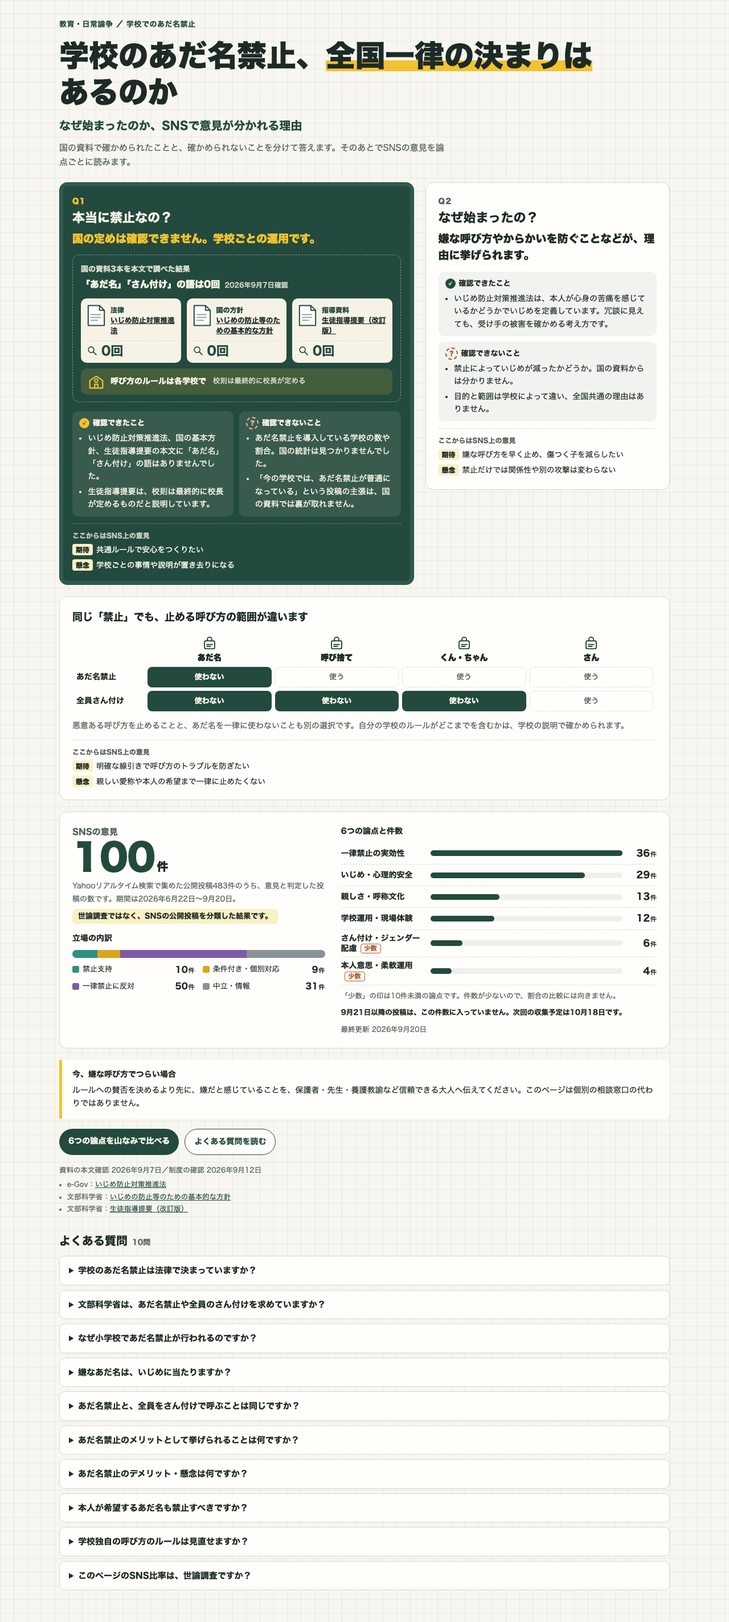
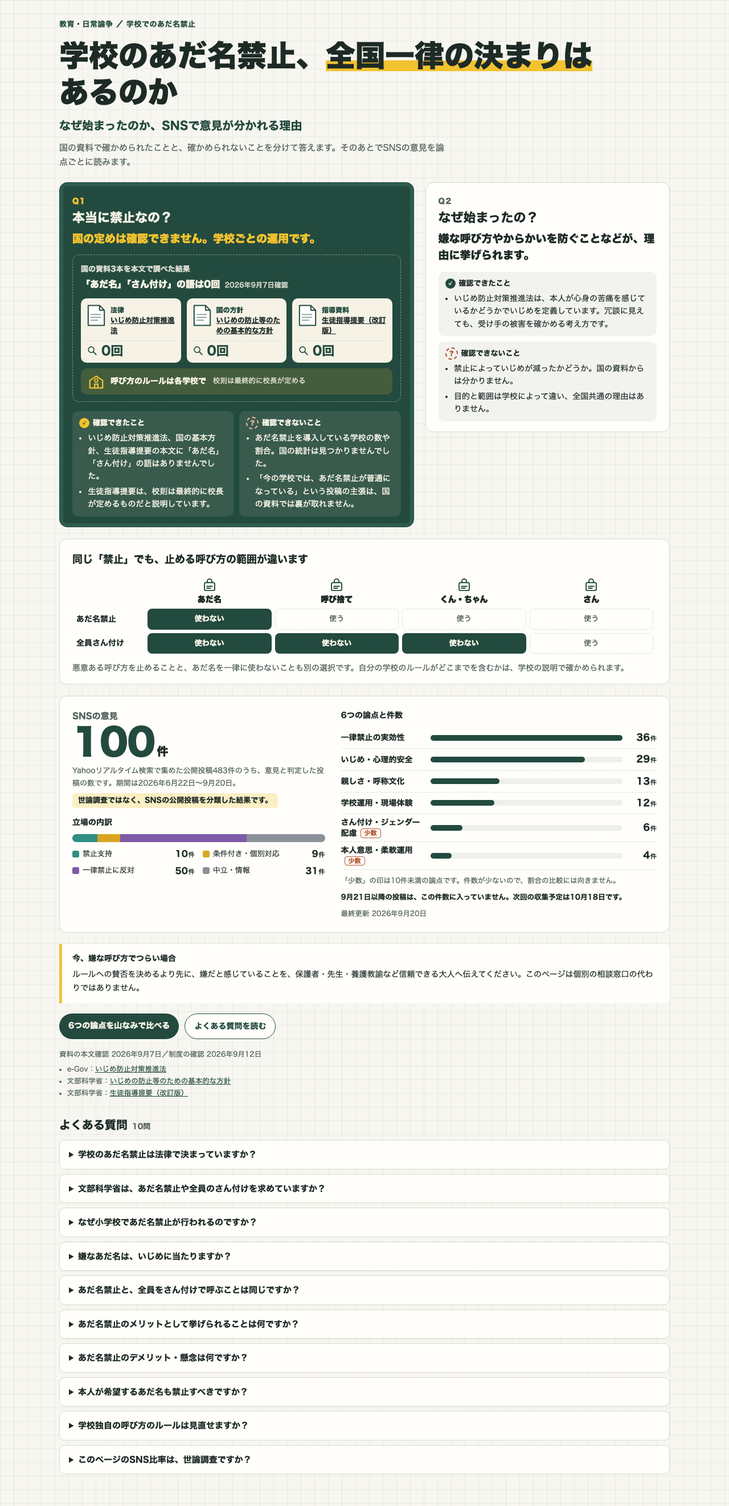
school-nickname-ban: 期待・懸念を冒頭から背景へ移動（オーナー指示）

Changed region(s): [[0.0625, 0.0, 0.9062, 0.9921], [0.4375, 0.031, 0.8125, 0.062], [0.875, 0.496, 0.9062, 0.589]]

diff --git a/quality/prototypes/school-nickname-ban-opening/index.html b/quality/prototypes/school-nickname-ban-opening/index.html
@@ -12,8 +12,8 @@
 <!-- SCHOOL_NICKNAME_OPENING_START -->
 <section class="nop" aria-label="学校でのあだ名禁止の冒頭">
 <header class="nop-hero"><p class="nop-crumb">教育・日常論争 ／ 学校でのあだ名禁止</p><h1 class="nop-title"><span class="nop-phrase">学校のあだ名禁止、</span><span class="nop-phrase nop-accent">全国一律の決まりは</span><span class="nop-phrase">あるのか</span><span class="nop-sub"><span class="nop-phrase">なぜ始まったのか、</span><span class="nop-phrase">SNSで意見が分かれる理由</span></span></h1><p class="nop-lead">国の資料で確かめられたことと、確かめられないことを分けて答えます。そのあとでSNSの意見を論点ごとに読みます。</p></header>
-<div class="nop-answers"><article class="nop-answer nop-answer--rule" aria-labelledby="nop-q-rule"><p class="nop-answer__num" aria-hidden="true">Q1</p><h2 class="nop-answer__q" id="nop-q-rule">本当に禁止なの？</h2><p class="nop-answer__short">国の定めは確認できません。学校ごとの運用です。</p><figure class="nop-docs" aria-labelledby="nop-docs-title"><figcaption id="nop-docs-title" class="nop-docs__title">国の資料3本を本文で調べた結果</figcaption><p class="nop-docs__result">「あだ名」「さん付け」の語は0回<small>2026年9月7日確認</small></p><ol class="nop-docs__list"><li class="nop-doc"><svg class="nop-doc__paper" viewBox="0 0 40 48" aria-hidden="true" focusable="false"><path d="M3 3h24l10 10v32H3z" fill="#fff" stroke="currentColor" stroke-width="2.4" stroke-linejoin="round"/><path d="M27 3v10h10" fill="none" stroke="currentColor" stroke-width="2.4" stroke-linejoin="round"/><path d="M9 22h20M9 28h20M9 34h14" stroke="currentColor" stroke-width="2" stroke-linecap="round" opacity=".55"/></svg><span class="nop-doc__kind">法律</span><span class="nop-doc__name"><a href="https://laws.e-gov.go.jp/law/425AC1000000071" target="_blank" rel="noopener noreferrer">いじめ防止対策推進法</a></span><span class="nop-doc__hit"><svg class="nop-icon" viewBox="0 0 32 32" aria-hidden="true" focusable="false"><circle cx="13" cy="13" r="8" fill="none" stroke="currentColor" stroke-width="2.6"/><path d="M19 19l8 8" stroke="currentColor" stroke-width="3" stroke-linecap="round"/></svg><b>0回</b></span></li><li class="nop-doc"><svg class="nop-doc__paper" viewBox="0 0 40 48" aria-hidden="true" focusable="false"><path d="M3 3h24l10 10v32H3z" fill="#fff" stroke="currentColor" stroke-width="2.4" stroke-linejoin="round"/><path d="M27 3v10h10" fill="none" stroke="currentColor" stroke-width="2.4" stroke-linejoin="round"/><path d="M9 22h20M9 28h20M9 34h14" stroke="currentColor" stroke-width="2" stroke-linecap="round" opacity=".55"/></svg><span class="nop-doc__kind">国の方針</span><span class="nop-doc__name"><a href="https://www.mext.go.jp/component/a_menu/education/detail/__icsFiles/afieldfile/2019/06/26/1400030_007.pdf" target="_blank" rel="noopener noreferrer">いじめの防止等のための基本的な方針</a></span><span class="nop-doc__hit"><svg class="nop-icon" viewBox="0 0 32 32" aria-hidden="true" focusable="false"><circle cx="13" cy="13" r="8" fill="none" stroke="currentColor" stroke-width="2.6"/><path d="M19 19l8 8" stroke="currentColor" stroke-width="3" stroke-linecap="round"/></svg><b>0回</b></span></li><li class="nop-doc"><svg class="nop-doc__paper" viewBox="0 0 40 48" aria-hidden="true" focusable="false"><path d="M3 3h24l10 10v32H3z" fill="#fff" stroke="currentColor" stroke-width="2.4" stroke-linejoin="round"/><path d="M27 3v10h10" fill="none" stroke="currentColor" stroke-width="2.4" stroke-linejoin="round"/><path d="M9 22h20M9 28h20M9 34h14" stroke="currentColor" stroke-width="2" stroke-linecap="round" opacity=".55"/></svg><span class="nop-doc__kind">指導資料</span><span class="nop-doc__name"><a href="https://www.mext.go.jp/content/20230220-mxt_jidou01-000024699-201-1.pdf" target="_blank" rel="noopener noreferrer">生徒指導提要（改訂版）</a></span><span class="nop-doc__hit"><svg class="nop-icon" viewBox="0 0 32 32" aria-hidden="true" focusable="false"><circle cx="13" cy="13" r="8" fill="none" stroke="currentColor" stroke-width="2.6"/><path d="M19 19l8 8" stroke="currentColor" stroke-width="3" stroke-linecap="round"/></svg><b>0回</b></span></li></ol><div class="nop-docs__school"><svg class="nop-icon" viewBox="0 0 32 32" aria-hidden="true" focusable="false"><path d="M4 28V14l12-8 12 8v14z" fill="none" stroke="currentColor" stroke-width="2.4" stroke-linejoin="round"/><circle cx="16" cy="14" r="3" fill="none" stroke="currentColor" stroke-width="2"/><path d="M13 28v-7h6v7" fill="none" stroke="currentColor" stroke-width="2.4"/></svg><p><b>呼び方のルールは各学校で</b><span>校則は最終的に校長が定める</span></p></div></figure><div class="nop-split"><div class="nop-split__ok"><h3>確認できたこと</h3><ul><li>いじめ防止対策推進法、国の基本方針、生徒指導提要の本文に「あだ名」「さん付け」の語はありませんでした。</li><li>生徒指導提要は、校則は最終的に校長が定めるものだと説明しています。</li></ul></div><div class="nop-split__ng"><h3>確認できないこと</h3><ul><li>あだ名禁止を導入している学校の数や割合。国の統計は見つかりませんでした。</li><li>「今の学校では、あだ名禁止が普通になっている」という投稿の主張は、国の資料では裏が取れません。</li></ul></div></div><div class="nop-voices" aria-label="ここからはSNS上の意見"><p class="nop-voices__label">ここからはSNS上の意見</p><p><span>期待</span>共通ルールで安心をつくりたい</p><p><span>懸念</span>学校ごとの事情や説明が置き去りになる</p></div></article><article class="nop-answer nop-answer--why" aria-labelledby="nop-q-why"><p class="nop-answer__num" aria-hidden="true">Q2</p><h2 class="nop-answer__q" id="nop-q-why">なぜ始まったの？</h2><p class="nop-answer__short">嫌な呼び方やからかいを防ぐことなどが、理由に挙げられます。</p><div class="nop-split"><div class="nop-split__ok"><h3>確認できたこと</h3><ul><li>いじめ防止対策推進法は、本人が心身の苦痛を感じているかどうかでいじめを定義しています。冗談に見えても、受け手の被害を確かめる考え方です。</li></ul></div><div class="nop-split__ng"><h3>確認できないこと</h3><ul><li>禁止によっていじめが減ったかどうか。国の資料からは分かりません。</li><li>目的と範囲は学校によって違い、全国共通の理由はありません。</li></ul></div></div><div class="nop-voices" aria-label="ここからはSNS上の意見"><p class="nop-voices__label">ここからはSNS上の意見</p><p><span>期待</span>嫌な呼び方を早く止め、傷つく子を減らしたい</p><p><span>懸念</span>禁止だけでは関係性や別の攻撃は変わらない</p></div></article></div>
-<section class="nop-scope" aria-labelledby="nop-scope-title"><h2 id="nop-scope-title">同じ「禁止」でも、止める呼び方の範囲が違います</h2><div class="nop-scope__wrap"><table class="nop-scope__table"><thead><tr><td></td><th scope="col"><span class="nop-tag"><svg class="nop-icon" viewBox="0 0 32 32" aria-hidden="true" focusable="false"><rect x="5" y="9" width="22" height="17" rx="3" fill="none" stroke="currentColor" stroke-width="2.4"/><path d="M11 9V6a5 5 0 0 1 10 0v3" fill="none" stroke="currentColor" stroke-width="2.4"/><path d="M10 17h12M10 21h8" stroke="currentColor" stroke-width="2.4" stroke-linecap="round"/></svg><b>あだ名</b></span></th><th scope="col"><span class="nop-tag"><svg class="nop-icon" viewBox="0 0 32 32" aria-hidden="true" focusable="false"><rect x="5" y="9" width="22" height="17" rx="3" fill="none" stroke="currentColor" stroke-width="2.4"/><path d="M11 9V6a5 5 0 0 1 10 0v3" fill="none" stroke="currentColor" stroke-width="2.4"/><path d="M10 17h12M10 21h8" stroke="currentColor" stroke-width="2.4" stroke-linecap="round"/></svg><b>呼び捨て</b></span></th><th scope="col"><span class="nop-tag"><svg class="nop-icon" viewBox="0 0 32 32" aria-hidden="true" focusable="false"><rect x="5" y="9" width="22" height="17" rx="3" fill="none" stroke="currentColor" stroke-width="2.4"/><path d="M11 9V6a5 5 0 0 1 10 0v3" fill="none" stroke="currentColor" stroke-width="2.4"/><path d="M10 17h12M10 21h8" stroke="currentColor" stroke-width="2.4" stroke-linecap="round"/></svg><b>くん・<wbr>ちゃん</b></span></th><th scope="col"><span class="nop-tag"><svg class="nop-icon" viewBox="0 0 32 32" aria-hidden="true" focusable="false"><rect x="5" y="9" width="22" height="17" rx="3" fill="none" stroke="currentColor" stroke-width="2.4"/><path d="M11 9V6a5 5 0 0 1 10 0v3" fill="none" stroke="currentColor" stroke-width="2.4"/><path d="M10 17h12M10 21h8" stroke="currentColor" stroke-width="2.4" stroke-linecap="round"/></svg><b>さん</b></span></th></tr></thead><tbody><tr><th scope="row">あだ名禁止</th><td class="nop-cell--stop">使わない</td><td class="nop-cell--keep">使う</td><td class="nop-cell--keep">使う</td><td class="nop-cell--keep">使う</td></tr><tr><th scope="row">全員さん付け</th><td class="nop-cell--stop">使わない</td><td class="nop-cell--stop">使わない</td><td class="nop-cell--stop">使わない</td><td class="nop-cell--keep">使う</td></tr></tbody></table></div><p class="nop-scope__note">悪意ある呼び方を止めることと、あだ名を一律に使わないことも別の選択です。自分の学校のルールがどこまでを含むかは、学校の説明で確かめられます。</p><div class="nop-voices" aria-label="ここからはSNS上の意見"><p class="nop-voices__label">ここからはSNS上の意見</p><p><span>期待</span>明確な線引きで呼び方のトラブルを防ぎたい</p><p><span>懸念</span>親しい愛称や本人の希望まで一律に止めたくない</p></div></section>
+<div class="nop-answers"><article class="nop-answer nop-answer--rule" aria-labelledby="nop-q-rule"><p class="nop-answer__num" aria-hidden="true">Q1</p><h2 class="nop-answer__q" id="nop-q-rule">本当に禁止なの？</h2><p class="nop-answer__short">国の定めは確認できません。学校ごとの運用です。</p><figure class="nop-docs" aria-labelledby="nop-docs-title"><figcaption id="nop-docs-title" class="nop-docs__title">国の資料3本を本文で調べた結果</figcaption><p class="nop-docs__result">「あだ名」「さん付け」の語は0回<small>2026年9月7日確認</small></p><ol class="nop-docs__list"><li class="nop-doc"><svg class="nop-doc__paper" viewBox="0 0 40 48" aria-hidden="true" focusable="false"><path d="M3 3h24l10 10v32H3z" fill="#fff" stroke="currentColor" stroke-width="2.4" stroke-linejoin="round"/><path d="M27 3v10h10" fill="none" stroke="currentColor" stroke-width="2.4" stroke-linejoin="round"/><path d="M9 22h20M9 28h20M9 34h14" stroke="currentColor" stroke-width="2" stroke-linecap="round" opacity=".55"/></svg><span class="nop-doc__kind">法律</span><span class="nop-doc__name"><a href="https://laws.e-gov.go.jp/law/425AC1000000071" target="_blank" rel="noopener noreferrer">いじめ防止対策推進法</a></span><span class="nop-doc__hit"><svg class="nop-icon" viewBox="0 0 32 32" aria-hidden="true" focusable="false"><circle cx="13" cy="13" r="8" fill="none" stroke="currentColor" stroke-width="2.6"/><path d="M19 19l8 8" stroke="currentColor" stroke-width="3" stroke-linecap="round"/></svg><b>0回</b></span></li><li class="nop-doc"><svg class="nop-doc__paper" viewBox="0 0 40 48" aria-hidden="true" focusable="false"><path d="M3 3h24l10 10v32H3z" fill="#fff" stroke="currentColor" stroke-width="2.4" stroke-linejoin="round"/><path d="M27 3v10h10" fill="none" stroke="currentColor" stroke-width="2.4" stroke-linejoin="round"/><path d="M9 22h20M9 28h20M9 34h14" stroke="currentColor" stroke-width="2" stroke-linecap="round" opacity=".55"/></svg><span class="nop-doc__kind">国の方針</span><span class="nop-doc__name"><a href="https://www.mext.go.jp/component/a_menu/education/detail/__icsFiles/afieldfile/2019/06/26/1400030_007.pdf" target="_blank" rel="noopener noreferrer">いじめの防止等のための基本的な方針</a></span><span class="nop-doc__hit"><svg class="nop-icon" viewBox="0 0 32 32" aria-hidden="true" focusable="false"><circle cx="13" cy="13" r="8" fill="none" stroke="currentColor" stroke-width="2.6"/><path d="M19 19l8 8" stroke="currentColor" stroke-width="3" stroke-linecap="round"/></svg><b>0回</b></span></li><li class="nop-doc"><svg class="nop-doc__paper" viewBox="0 0 40 48" aria-hidden="true" focusable="false"><path d="M3 3h24l10 10v32H3z" fill="#fff" stroke="currentColor" stroke-width="2.4" stroke-linejoin="round"/><path d="M27 3v10h10" fill="none" stroke="currentColor" stroke-width="2.4" stroke-linejoin="round"/><path d="M9 22h20M9 28h20M9 34h14" stroke="currentColor" stroke-width="2" stroke-linecap="round" opacity=".55"/></svg><span class="nop-doc__kind">指導資料</span><span class="nop-doc__name"><a href="https://www.mext.go.jp/content/20230220-mxt_jidou01-000024699-201-1.pdf" target="_blank" rel="noopener noreferrer">生徒指導提要（改訂版）</a></span><span class="nop-doc__hit"><svg class="nop-icon" viewBox="0 0 32 32" aria-hidden="true" focusable="false"><circle cx="13" cy="13" r="8" fill="none" stroke="currentColor" stroke-width="2.6"/><path d="M19 19l8 8" stroke="currentColor" stroke-width="3" stroke-linecap="round"/></svg><b>0回</b></span></li></ol><div class="nop-docs__school"><svg class="nop-icon" viewBox="0 0 32 32" aria-hidden="true" focusable="false"><path d="M4 28V14l12-8 12 8v14z" fill="none" stroke="currentColor" stroke-width="2.4" stroke-linejoin="round"/><circle cx="16" cy="14" r="3" fill="none" stroke="currentColor" stroke-width="2"/><path d="M13 28v-7h6v7" fill="none" stroke="currentColor" stroke-width="2.4"/></svg><p><b>呼び方のルールは各学校で</b><span>校則は最終的に校長が定める</span></p></div></figure><div class="nop-split"><div class="nop-split__ok"><h3>確認できたこと</h3><ul><li>いじめ防止対策推進法、国の基本方針、生徒指導提要の本文に「あだ名」「さん付け」の語はありませんでした。</li><li>生徒指導提要は、校則は最終的に校長が定めるものだと説明しています。</li></ul></div><div class="nop-split__ng"><h3>確認できないこと</h3><ul><li>あだ名禁止を導入している学校の数や割合。国の統計は見つかりませんでした。</li><li>「今の学校では、あだ名禁止が普通になっている」という投稿の主張は、国の資料では裏が取れません。</li></ul></div></div></article><article class="nop-answer nop-answer--why" aria-labelledby="nop-q-why"><p class="nop-answer__num" aria-hidden="true">Q2</p><h2 class="nop-answer__q" id="nop-q-why">なぜ始まったの？</h2><p class="nop-answer__short">嫌な呼び方やからかいを防ぐことなどが、理由に挙げられます。</p><div class="nop-split"><div class="nop-split__ok"><h3>確認できたこと</h3><ul><li>いじめ防止対策推進法は、本人が心身の苦痛を感じているかどうかでいじめを定義しています。冗談に見えても、受け手の被害を確かめる考え方です。</li></ul></div><div class="nop-split__ng"><h3>確認できないこと</h3><ul><li>禁止によっていじめが減ったかどうか。国の資料からは分かりません。</li><li>目的と範囲は学校によって違い、全国共通の理由はありません。</li></ul></div></div></article></div>
+<section class="nop-scope" aria-labelledby="nop-scope-title"><h2 id="nop-scope-title">同じ「禁止」でも、止める呼び方の範囲が違います</h2><div class="nop-scope__wrap"><table class="nop-scope__table"><thead><tr><td></td><th scope="col"><span class="nop-tag"><svg class="nop-icon" viewBox="0 0 32 32" aria-hidden="true" focusable="false"><rect x="5" y="9" width="22" height="17" rx="3" fill="none" stroke="currentColor" stroke-width="2.4"/><path d="M11 9V6a5 5 0 0 1 10 0v3" fill="none" stroke="currentColor" stroke-width="2.4"/><path d="M10 17h12M10 21h8" stroke="currentColor" stroke-width="2.4" stroke-linecap="round"/></svg><b>あだ名</b></span></th><th scope="col"><span class="nop-tag"><svg class="nop-icon" viewBox="0 0 32 32" aria-hidden="true" focusable="false"><rect x="5" y="9" width="22" height="17" rx="3" fill="none" stroke="currentColor" stroke-width="2.4"/><path d="M11 9V6a5 5 0 0 1 10 0v3" fill="none" stroke="currentColor" stroke-width="2.4"/><path d="M10 17h12M10 21h8" stroke="currentColor" stroke-width="2.4" stroke-linecap="round"/></svg><b>呼び捨て</b></span></th><th scope="col"><span class="nop-tag"><svg class="nop-icon" viewBox="0 0 32 32" aria-hidden="true" focusable="false"><rect x="5" y="9" width="22" height="17" rx="3" fill="none" stroke="currentColor" stroke-width="2.4"/><path d="M11 9V6a5 5 0 0 1 10 0v3" fill="none" stroke="currentColor" stroke-width="2.4"/><path d="M10 17h12M10 21h8" stroke="currentColor" stroke-width="2.4" stroke-linecap="round"/></svg><b>くん・<wbr>ちゃん</b></span></th><th scope="col"><span class="nop-tag"><svg class="nop-icon" viewBox="0 0 32 32" aria-hidden="true" focusable="false"><rect x="5" y="9" width="22" height="17" rx="3" fill="none" stroke="currentColor" stroke-width="2.4"/><path d="M11 9V6a5 5 0 0 1 10 0v3" fill="none" stroke="currentColor" stroke-width="2.4"/><path d="M10 17h12M10 21h8" stroke="currentColor" stroke-width="2.4" stroke-linecap="round"/></svg><b>さん</b></span></th></tr></thead><tbody><tr><th scope="row">あだ名禁止</th><td class="nop-cell--stop">使わない</td><td class="nop-cell--keep">使う</td><td class="nop-cell--keep">使う</td><td class="nop-cell--keep">使う</td></tr><tr><th scope="row">全員さん付け</th><td class="nop-cell--stop">使わない</td><td class="nop-cell--stop">使わない</td><td class="nop-cell--stop">使わない</td><td class="nop-cell--keep">使う</td></tr></tbody></table></div><p class="nop-scope__note">悪意ある呼び方を止めることと、あだ名を一律に使わないことも別の選択です。自分の学校のルールがどこまでを含むかは、学校の説明で確かめられます。</p></section>
 <section class="nop-count" id="school-nickname-opening-count" aria-labelledby="nop-count-title"><div class="nop-count__total"><h2 id="nop-count-title">SNSの意見</h2><p class="nop-count__num"><strong>100</strong><span>件</span></p><p class="nop-count__caption">Yahooリアルタイム検索で集めた公開投稿483件のうち、意見と判定した投稿の数です。期間は2026年6月22日〜9月20日。</p><p class="nop-count__poll">世論調査ではなく、SNSの公開投稿を分類した結果です。</p><h3 class="nop-count__sub">立場の内訳</h3><div class="nop-stance" aria-hidden="true"><span class="nop-stance__seg" style="--w:10.00%;--c:#2F8F83"></span><span class="nop-stance__seg" style="--w:9.00%;--c:#D9A520"></span><span class="nop-stance__seg" style="--w:50.00%;--c:#7D5BA6"></span><span class="nop-stance__seg" style="--w:31.00%;--c:#8B9199"></span></div><ul class="nop-stance__list"><li><span class="nop-key" style="--c:#2F8F83" aria-hidden="true"></span>禁止支持<b>10<small>件</small></b></li><li><span class="nop-key" style="--c:#D9A520" aria-hidden="true"></span>条件付き・個別対応<b>9<small>件</small></b></li><li><span class="nop-key" style="--c:#7D5BA6" aria-hidden="true"></span>一律禁止に反対<b>50<small>件</small></b></li><li><span class="nop-key" style="--c:#8B9199" aria-hidden="true"></span>中立・情報<b>31<small>件</small></b></li></ul></div><div class="nop-count__issues"><h3 class="nop-count__sub">6つの論点と件数</h3><ol class="nop-issues"><li class="nop-issue"><span class="nop-issue__name">一律禁止の実効性</span><span class="nop-issue__bar" aria-hidden="true"><i style="--w:100.00%"></i></span><b>36<small>件</small></b></li><li class="nop-issue"><span class="nop-issue__name">いじめ・心理的安全</span><span class="nop-issue__bar" aria-hidden="true"><i style="--w:80.56%"></i></span><b>29<small>件</small></b></li><li class="nop-issue"><span class="nop-issue__name">親しさ・呼称文化</span><span class="nop-issue__bar" aria-hidden="true"><i style="--w:36.11%"></i></span><b>13<small>件</small></b></li><li class="nop-issue"><span class="nop-issue__name">学校運用・現場体験</span><span class="nop-issue__bar" aria-hidden="true"><i style="--w:33.33%"></i></span><b>12<small>件</small></b></li><li class="nop-issue"><span class="nop-issue__name">さん付け・ジェンダー配慮<em class="nop-flag">少数</em></span><span class="nop-issue__bar" aria-hidden="true"><i style="--w:16.67%"></i></span><b>6<small>件</small></b></li><li class="nop-issue"><span class="nop-issue__name">本人意思・柔軟運用<em class="nop-flag">少数</em></span><span class="nop-issue__bar" aria-hidden="true"><i style="--w:11.11%"></i></span><b>4<small>件</small></b></li></ol><p class="nop-count__note">「少数」の印は10件未満の論点です。件数が少ないので、割合の比較には向きません。</p><p class="nop-count__after">9月21日以降の投稿は、この件数に入っていません。次回の収集予定は10月18日です。</p><p class="nop-count__updated">最終更新 2026年9月20日</p></div></section>
 <aside class="nop-safety"><b>今、嫌な呼び方でつらい場合</b><p>ルールへの賛否を決めるより先に、嫌だと感じていることを、保護者・先生・養護教諭など信頼できる大人へ伝えてください。このページは個別の相談窓口の代わりではありません。</p></aside>
 <nav class="nop-links" aria-label="このページの読み方"><a class="nop-link" href="#planet-block">6つの論点を山なみで比べる</a><a class="nop-link" href="#school-nickname-faq">よくある質問を読む</a></nav>

diff --git a/quality/prototypes/school-nickname-ban-opening/opening-fragment.html b/quality/prototypes/school-nickname-ban-opening/opening-fragment.html
@@ -1,8 +1,8 @@
 <!-- SCHOOL_NICKNAME_OPENING_START -->
 <section class="nop" aria-label="学校でのあだ名禁止の冒頭">
 <header class="nop-hero"><p class="nop-crumb">教育・日常論争 ／ 学校でのあだ名禁止</p><h1 class="nop-title"><span class="nop-phrase">学校のあだ名禁止、</span><span class="nop-phrase nop-accent">全国一律の決まりは</span><span class="nop-phrase">あるのか</span><span class="nop-sub"><span class="nop-phrase">なぜ始まったのか、</span><span class="nop-phrase">SNSで意見が分かれる理由</span></span></h1><p class="nop-lead">国の資料で確かめられたことと、確かめられないことを分けて答えます。そのあとでSNSの意見を論点ごとに読みます。</p></header>
-<div class="nop-answers"><article class="nop-answer nop-answer--rule" aria-labelledby="nop-q-rule"><p class="nop-answer__num" aria-hidden="true">Q1</p><h2 class="nop-answer__q" id="nop-q-rule">本当に禁止なの？</h2><p class="nop-answer__short">国の定めは確認できません。学校ごとの運用です。</p><figure class="nop-docs" aria-labelledby="nop-docs-title"><figcaption id="nop-docs-title" class="nop-docs__title">国の資料3本を本文で調べた結果</figcaption><p class="nop-docs__result">「あだ名」「さん付け」の語は0回<small>2026年9月7日確認</small></p><ol class="nop-docs__list"><li class="nop-doc"><svg class="nop-doc__paper" viewBox="0 0 40 48" aria-hidden="true" focusable="false"><path d="M3 3h24l10 10v32H3z" fill="#fff" stroke="currentColor" stroke-width="2.4" stroke-linejoin="round"/><path d="M27 3v10h10" fill="none" stroke="currentColor" stroke-width="2.4" stroke-linejoin="round"/><path d="M9 22h20M9 28h20M9 34h14" stroke="currentColor" stroke-width="2" stroke-linecap="round" opacity=".55"/></svg><span class="nop-doc__kind">法律</span><span class="nop-doc__name"><a href="https://laws.e-gov.go.jp/law/425AC1000000071" target="_blank" rel="noopener noreferrer">いじめ防止対策推進法</a></span><span class="nop-doc__hit"><svg class="nop-icon" viewBox="0 0 32 32" aria-hidden="true" focusable="false"><circle cx="13" cy="13" r="8" fill="none" stroke="currentColor" stroke-width="2.6"/><path d="M19 19l8 8" stroke="currentColor" stroke-width="3" stroke-linecap="round"/></svg><b>0回</b></span></li><li class="nop-doc"><svg class="nop-doc__paper" viewBox="0 0 40 48" aria-hidden="true" focusable="false"><path d="M3 3h24l10 10v32H3z" fill="#fff" stroke="currentColor" stroke-width="2.4" stroke-linejoin="round"/><path d="M27 3v10h10" fill="none" stroke="currentColor" stroke-width="2.4" stroke-linejoin="round"/><path d="M9 22h20M9 28h20M9 34h14" stroke="currentColor" stroke-width="2" stroke-linecap="round" opacity=".55"/></svg><span class="nop-doc__kind">国の方針</span><span class="nop-doc__name"><a href="https://www.mext.go.jp/component/a_menu/education/detail/__icsFiles/afieldfile/2019/06/26/1400030_007.pdf" target="_blank" rel="noopener noreferrer">いじめの防止等のための基本的な方針</a></span><span class="nop-doc__hit"><svg class="nop-icon" viewBox="0 0 32 32" aria-hidden="true" focusable="false"><circle cx="13" cy="13" r="8" fill="none" stroke="currentColor" stroke-width="2.6"/><path d="M19 19l8 8" stroke="currentColor" stroke-width="3" stroke-linecap="round"/></svg><b>0回</b></span></li><li class="nop-doc"><svg class="nop-doc__paper" viewBox="0 0 40 48" aria-hidden="true" focusable="false"><path d="M3 3h24l10 10v32H3z" fill="#fff" stroke="currentColor" stroke-width="2.4" stroke-linejoin="round"/><path d="M27 3v10h10" fill="none" stroke="currentColor" stroke-width="2.4" stroke-linejoin="round"/><path d="M9 22h20M9 28h20M9 34h14" stroke="currentColor" stroke-width="2" stroke-linecap="round" opacity=".55"/></svg><span class="nop-doc__kind">指導資料</span><span class="nop-doc__name"><a href="https://www.mext.go.jp/content/20230220-mxt_jidou01-000024699-201-1.pdf" target="_blank" rel="noopener noreferrer">生徒指導提要（改訂版）</a></span><span class="nop-doc__hit"><svg class="nop-icon" viewBox="0 0 32 32" aria-hidden="true" focusable="false"><circle cx="13" cy="13" r="8" fill="none" stroke="currentColor" stroke-width="2.6"/><path d="M19 19l8 8" stroke="currentColor" stroke-width="3" stroke-linecap="round"/></svg><b>0回</b></span></li></ol><div class="nop-docs__school"><svg class="nop-icon" viewBox="0 0 32 32" aria-hidden="true" focusable="false"><path d="M4 28V14l12-8 12 8v14z" fill="none" stroke="currentColor" stroke-width="2.4" stroke-linejoin="round"/><circle cx="16" cy="14" r="3" fill="none" stroke="currentColor" stroke-width="2"/><path d="M13 28v-7h6v7" fill="none" stroke="currentColor" stroke-width="2.4"/></svg><p><b>呼び方のルールは各学校で</b><span>校則は最終的に校長が定める</span></p></div></figure><div class="nop-split"><div class="nop-split__ok"><h3>確認できたこと</h3><ul><li>いじめ防止対策推進法、国の基本方針、生徒指導提要の本文に「あだ名」「さん付け」の語はありませんでした。</li><li>生徒指導提要は、校則は最終的に校長が定めるものだと説明しています。</li></ul></div><div class="nop-split__ng"><h3>確認できないこと</h3><ul><li>あだ名禁止を導入している学校の数や割合。国の統計は見つかりませんでした。</li><li>「今の学校では、あだ名禁止が普通になっている」という投稿の主張は、国の資料では裏が取れません。</li></ul></div></div><div class="nop-voices" aria-label="ここからはSNS上の意見"><p class="nop-voices__label">ここからはSNS上の意見</p><p><span>期待</span>共通ルールで安心をつくりたい</p><p><span>懸念</span>学校ごとの事情や説明が置き去りになる</p></div></article><article class="nop-answer nop-answer--why" aria-labelledby="nop-q-why"><p class="nop-answer__num" aria-hidden="true">Q2</p><h2 class="nop-answer__q" id="nop-q-why">なぜ始まったの？</h2><p class="nop-answer__short">嫌な呼び方やからかいを防ぐことなどが、理由に挙げられます。</p><div class="nop-split"><div class="nop-split__ok"><h3>確認できたこと</h3><ul><li>いじめ防止対策推進法は、本人が心身の苦痛を感じているかどうかでいじめを定義しています。冗談に見えても、受け手の被害を確かめる考え方です。</li></ul></div><div class="nop-split__ng"><h3>確認できないこと</h3><ul><li>禁止によっていじめが減ったかどうか。国の資料からは分かりません。</li><li>目的と範囲は学校によって違い、全国共通の理由はありません。</li></ul></div></div><div class="nop-voices" aria-label="ここからはSNS上の意見"><p class="nop-voices__label">ここからはSNS上の意見</p><p><span>期待</span>嫌な呼び方を早く止め、傷つく子を減らしたい</p><p><span>懸念</span>禁止だけでは関係性や別の攻撃は変わらない</p></div></article></div>
-<section class="nop-scope" aria-labelledby="nop-scope-title"><h2 id="nop-scope-title">同じ「禁止」でも、止める呼び方の範囲が違います</h2><div class="nop-scope__wrap"><table class="nop-scope__table"><thead><tr><td></td><th scope="col"><span class="nop-tag"><svg class="nop-icon" viewBox="0 0 32 32" aria-hidden="true" focusable="false"><rect x="5" y="9" width="22" height="17" rx="3" fill="none" stroke="currentColor" stroke-width="2.4"/><path d="M11 9V6a5 5 0 0 1 10 0v3" fill="none" stroke="currentColor" stroke-width="2.4"/><path d="M10 17h12M10 21h8" stroke="currentColor" stroke-width="2.4" stroke-linecap="round"/></svg><b>あだ名</b></span></th><th scope="col"><span class="nop-tag"><svg class="nop-icon" viewBox="0 0 32 32" aria-hidden="true" focusable="false"><rect x="5" y="9" width="22" height="17" rx="3" fill="none" stroke="currentColor" stroke-width="2.4"/><path d="M11 9V6a5 5 0 0 1 10 0v3" fill="none" stroke="currentColor" stroke-width="2.4"/><path d="M10 17h12M10 21h8" stroke="currentColor" stroke-width="2.4" stroke-linecap="round"/></svg><b>呼び捨て</b></span></th><th scope="col"><span class="nop-tag"><svg class="nop-icon" viewBox="0 0 32 32" aria-hidden="true" focusable="false"><rect x="5" y="9" width="22" height="17" rx="3" fill="none" stroke="currentColor" stroke-width="2.4"/><path d="M11 9V6a5 5 0 0 1 10 0v3" fill="none" stroke="currentColor" stroke-width="2.4"/><path d="M10 17h12M10 21h8" stroke="currentColor" stroke-width="2.4" stroke-linecap="round"/></svg><b>くん・<wbr>ちゃん</b></span></th><th scope="col"><span class="nop-tag"><svg class="nop-icon" viewBox="0 0 32 32" aria-hidden="true" focusable="false"><rect x="5" y="9" width="22" height="17" rx="3" fill="none" stroke="currentColor" stroke-width="2.4"/><path d="M11 9V6a5 5 0 0 1 10 0v3" fill="none" stroke="currentColor" stroke-width="2.4"/><path d="M10 17h12M10 21h8" stroke="currentColor" stroke-width="2.4" stroke-linecap="round"/></svg><b>さん</b></span></th></tr></thead><tbody><tr><th scope="row">あだ名禁止</th><td class="nop-cell--stop">使わない</td><td class="nop-cell--keep">使う</td><td class="nop-cell--keep">使う</td><td class="nop-cell--keep">使う</td></tr><tr><th scope="row">全員さん付け</th><td class="nop-cell--stop">使わない</td><td class="nop-cell--stop">使わない</td><td class="nop-cell--stop">使わない</td><td class="nop-cell--keep">使う</td></tr></tbody></table></div><p class="nop-scope__note">悪意ある呼び方を止めることと、あだ名を一律に使わないことも別の選択です。自分の学校のルールがどこまでを含むかは、学校の説明で確かめられます。</p><div class="nop-voices" aria-label="ここからはSNS上の意見"><p class="nop-voices__label">ここからはSNS上の意見</p><p><span>期待</span>明確な線引きで呼び方のトラブルを防ぎたい</p><p><span>懸念</span>親しい愛称や本人の希望まで一律に止めたくない</p></div></section>
+<div class="nop-answers"><article class="nop-answer nop-answer--rule" aria-labelledby="nop-q-rule"><p class="nop-answer__num" aria-hidden="true">Q1</p><h2 class="nop-answer__q" id="nop-q-rule">本当に禁止なの？</h2><p class="nop-answer__short">国の定めは確認できません。学校ごとの運用です。</p><figure class="nop-docs" aria-labelledby="nop-docs-title"><figcaption id="nop-docs-title" class="nop-docs__title">国の資料3本を本文で調べた結果</figcaption><p class="nop-docs__result">「あだ名」「さん付け」の語は0回<small>2026年9月7日確認</small></p><ol class="nop-docs__list"><li class="nop-doc"><svg class="nop-doc__paper" viewBox="0 0 40 48" aria-hidden="true" focusable="false"><path d="M3 3h24l10 10v32H3z" fill="#fff" stroke="currentColor" stroke-width="2.4" stroke-linejoin="round"/><path d="M27 3v10h10" fill="none" stroke="currentColor" stroke-width="2.4" stroke-linejoin="round"/><path d="M9 22h20M9 28h20M9 34h14" stroke="currentColor" stroke-width="2" stroke-linecap="round" opacity=".55"/></svg><span class="nop-doc__kind">法律</span><span class="nop-doc__name"><a href="https://laws.e-gov.go.jp/law/425AC1000000071" target="_blank" rel="noopener noreferrer">いじめ防止対策推進法</a></span><span class="nop-doc__hit"><svg class="nop-icon" viewBox="0 0 32 32" aria-hidden="true" focusable="false"><circle cx="13" cy="13" r="8" fill="none" stroke="currentColor" stroke-width="2.6"/><path d="M19 19l8 8" stroke="currentColor" stroke-width="3" stroke-linecap="round"/></svg><b>0回</b></span></li><li class="nop-doc"><svg class="nop-doc__paper" viewBox="0 0 40 48" aria-hidden="true" focusable="false"><path d="M3 3h24l10 10v32H3z" fill="#fff" stroke="currentColor" stroke-width="2.4" stroke-linejoin="round"/><path d="M27 3v10h10" fill="none" stroke="currentColor" stroke-width="2.4" stroke-linejoin="round"/><path d="M9 22h20M9 28h20M9 34h14" stroke="currentColor" stroke-width="2" stroke-linecap="round" opacity=".55"/></svg><span class="nop-doc__kind">国の方針</span><span class="nop-doc__name"><a href="https://www.mext.go.jp/component/a_menu/education/detail/__icsFiles/afieldfile/2019/06/26/1400030_007.pdf" target="_blank" rel="noopener noreferrer">いじめの防止等のための基本的な方針</a></span><span class="nop-doc__hit"><svg class="nop-icon" viewBox="0 0 32 32" aria-hidden="true" focusable="false"><circle cx="13" cy="13" r="8" fill="none" stroke="currentColor" stroke-width="2.6"/><path d="M19 19l8 8" stroke="currentColor" stroke-width="3" stroke-linecap="round"/></svg><b>0回</b></span></li><li class="nop-doc"><svg class="nop-doc__paper" viewBox="0 0 40 48" aria-hidden="true" focusable="false"><path d="M3 3h24l10 10v32H3z" fill="#fff" stroke="currentColor" stroke-width="2.4" stroke-linejoin="round"/><path d="M27 3v10h10" fill="none" stroke="currentColor" stroke-width="2.4" stroke-linejoin="round"/><path d="M9 22h20M9 28h20M9 34h14" stroke="currentColor" stroke-width="2" stroke-linecap="round" opacity=".55"/></svg><span class="nop-doc__kind">指導資料</span><span class="nop-doc__name"><a href="https://www.mext.go.jp/content/20230220-mxt_jidou01-000024699-201-1.pdf" target="_blank" rel="noopener noreferrer">生徒指導提要（改訂版）</a></span><span class="nop-doc__hit"><svg class="nop-icon" viewBox="0 0 32 32" aria-hidden="true" focusable="false"><circle cx="13" cy="13" r="8" fill="none" stroke="currentColor" stroke-width="2.6"/><path d="M19 19l8 8" stroke="currentColor" stroke-width="3" stroke-linecap="round"/></svg><b>0回</b></span></li></ol><div class="nop-docs__school"><svg class="nop-icon" viewBox="0 0 32 32" aria-hidden="true" focusable="false"><path d="M4 28V14l12-8 12 8v14z" fill="none" stroke="currentColor" stroke-width="2.4" stroke-linejoin="round"/><circle cx="16" cy="14" r="3" fill="none" stroke="currentColor" stroke-width="2"/><path d="M13 28v-7h6v7" fill="none" stroke="currentColor" stroke-width="2.4"/></svg><p><b>呼び方のルールは各学校で</b><span>校則は最終的に校長が定める</span></p></div></figure><div class="nop-split"><div class="nop-split__ok"><h3>確認できたこと</h3><ul><li>いじめ防止対策推進法、国の基本方針、生徒指導提要の本文に「あだ名」「さん付け」の語はありませんでした。</li><li>生徒指導提要は、校則は最終的に校長が定めるものだと説明しています。</li></ul></div><div class="nop-split__ng"><h3>確認できないこと</h3><ul><li>あだ名禁止を導入している学校の数や割合。国の統計は見つかりませんでした。</li><li>「今の学校では、あだ名禁止が普通になっている」という投稿の主張は、国の資料では裏が取れません。</li></ul></div></div></article><article class="nop-answer nop-answer--why" aria-labelledby="nop-q-why"><p class="nop-answer__num" aria-hidden="true">Q2</p><h2 class="nop-answer__q" id="nop-q-why">なぜ始まったの？</h2><p class="nop-answer__short">嫌な呼び方やからかいを防ぐことなどが、理由に挙げられます。</p><div class="nop-split"><div class="nop-split__ok"><h3>確認できたこと</h3><ul><li>いじめ防止対策推進法は、本人が心身の苦痛を感じているかどうかでいじめを定義しています。冗談に見えても、受け手の被害を確かめる考え方です。</li></ul></div><div class="nop-split__ng"><h3>確認できないこと</h3><ul><li>禁止によっていじめが減ったかどうか。国の資料からは分かりません。</li><li>目的と範囲は学校によって違い、全国共通の理由はありません。</li></ul></div></div></article></div>
+<section class="nop-scope" aria-labelledby="nop-scope-title"><h2 id="nop-scope-title">同じ「禁止」でも、止める呼び方の範囲が違います</h2><div class="nop-scope__wrap"><table class="nop-scope__table"><thead><tr><td></td><th scope="col"><span class="nop-tag"><svg class="nop-icon" viewBox="0 0 32 32" aria-hidden="true" focusable="false"><rect x="5" y="9" width="22" height="17" rx="3" fill="none" stroke="currentColor" stroke-width="2.4"/><path d="M11 9V6a5 5 0 0 1 10 0v3" fill="none" stroke="currentColor" stroke-width="2.4"/><path d="M10 17h12M10 21h8" stroke="currentColor" stroke-width="2.4" stroke-linecap="round"/></svg><b>あだ名</b></span></th><th scope="col"><span class="nop-tag"><svg class="nop-icon" viewBox="0 0 32 32" aria-hidden="true" focusable="false"><rect x="5" y="9" width="22" height="17" rx="3" fill="none" stroke="currentColor" stroke-width="2.4"/><path d="M11 9V6a5 5 0 0 1 10 0v3" fill="none" stroke="currentColor" stroke-width="2.4"/><path d="M10 17h12M10 21h8" stroke="currentColor" stroke-width="2.4" stroke-linecap="round"/></svg><b>呼び捨て</b></span></th><th scope="col"><span class="nop-tag"><svg class="nop-icon" viewBox="0 0 32 32" aria-hidden="true" focusable="false"><rect x="5" y="9" width="22" height="17" rx="3" fill="none" stroke="currentColor" stroke-width="2.4"/><path d="M11 9V6a5 5 0 0 1 10 0v3" fill="none" stroke="currentColor" stroke-width="2.4"/><path d="M10 17h12M10 21h8" stroke="currentColor" stroke-width="2.4" stroke-linecap="round"/></svg><b>くん・<wbr>ちゃん</b></span></th><th scope="col"><span class="nop-tag"><svg class="nop-icon" viewBox="0 0 32 32" aria-hidden="true" focusable="false"><rect x="5" y="9" width="22" height="17" rx="3" fill="none" stroke="currentColor" stroke-width="2.4"/><path d="M11 9V6a5 5 0 0 1 10 0v3" fill="none" stroke="currentColor" stroke-width="2.4"/><path d="M10 17h12M10 21h8" stroke="currentColor" stroke-width="2.4" stroke-linecap="round"/></svg><b>さん</b></span></th></tr></thead><tbody><tr><th scope="row">あだ名禁止</th><td class="nop-cell--stop">使わない</td><td class="nop-cell--keep">使う</td><td class="nop-cell--keep">使う</td><td class="nop-cell--keep">使う</td></tr><tr><th scope="row">全員さん付け</th><td class="nop-cell--stop">使わない</td><td class="nop-cell--stop">使わない</td><td class="nop-cell--stop">使わない</td><td class="nop-cell--keep">使う</td></tr></tbody></table></div><p class="nop-scope__note">悪意ある呼び方を止めることと、あだ名を一律に使わないことも別の選択です。自分の学校のルールがどこまでを含むかは、学校の説明で確かめられます。</p></section>
 <section class="nop-count" id="school-nickname-opening-count" aria-labelledby="nop-count-title"><div class="nop-count__total"><h2 id="nop-count-title">SNSの意見</h2><p class="nop-count__num"><strong>100</strong><span>件</span></p><p class="nop-count__caption">Yahooリアルタイム検索で集めた公開投稿483件のうち、意見と判定した投稿の数です。期間は2026年6月22日〜9月20日。</p><p class="nop-count__poll">世論調査ではなく、SNSの公開投稿を分類した結果です。</p><h3 class="nop-count__sub">立場の内訳</h3><div class="nop-stance" aria-hidden="true"><span class="nop-stance__seg" style="--w:10.00%;--c:#2F8F83"></span><span class="nop-stance__seg" style="--w:9.00%;--c:#D9A520"></span><span class="nop-stance__seg" style="--w:50.00%;--c:#7D5BA6"></span><span class="nop-stance__seg" style="--w:31.00%;--c:#8B9199"></span></div><ul class="nop-stance__list"><li><span class="nop-key" style="--c:#2F8F83" aria-hidden="true"></span>禁止支持<b>10<small>件</small></b></li><li><span class="nop-key" style="--c:#D9A520" aria-hidden="true"></span>条件付き・個別対応<b>9<small>件</small></b></li><li><span class="nop-key" style="--c:#7D5BA6" aria-hidden="true"></span>一律禁止に反対<b>50<small>件</small></b></li><li><span class="nop-key" style="--c:#8B9199" aria-hidden="true"></span>中立・情報<b>31<small>件</small></b></li></ul></div><div class="nop-count__issues"><h3 class="nop-count__sub">6つの論点と件数</h3><ol class="nop-issues"><li class="nop-issue"><span class="nop-issue__name">一律禁止の実効性</span><span class="nop-issue__bar" aria-hidden="true"><i style="--w:100.00%"></i></span><b>36<small>件</small></b></li><li class="nop-issue"><span class="nop-issue__name">いじめ・心理的安全</span><span class="nop-issue__bar" aria-hidden="true"><i style="--w:80.56%"></i></span><b>29<small>件</small></b></li><li class="nop-issue"><span class="nop-issue__name">親しさ・呼称文化</span><span class="nop-issue__bar" aria-hidden="true"><i style="--w:36.11%"></i></span><b>13<small>件</small></b></li><li class="nop-issue"><span class="nop-issue__name">学校運用・現場体験</span><span class="nop-issue__bar" aria-hidden="true"><i style="--w:33.33%"></i></span><b>12<small>件</small></b></li><li class="nop-issue"><span class="nop-issue__name">さん付け・ジェンダー配慮<em class="nop-flag">少数</em></span><span class="nop-issue__bar" aria-hidden="true"><i style="--w:16.67%"></i></span><b>6<small>件</small></b></li><li class="nop-issue"><span class="nop-issue__name">本人意思・柔軟運用<em class="nop-flag">少数</em></span><span class="nop-issue__bar" aria-hidden="true"><i style="--w:11.11%"></i></span><b>4<small>件</small></b></li></ol><p class="nop-count__note">「少数」の印は10件未満の論点です。件数が少ないので、割合の比較には向きません。</p><p class="nop-count__after">9月21日以降の投稿は、この件数に入っていません。次回の収集予定は10月18日です。</p><p class="nop-count__updated">最終更新 2026年9月20日</p></div></section>
 <aside class="nop-safety"><b>今、嫌な呼び方でつらい場合</b><p>ルールへの賛否を決めるより先に、嫌だと感じていることを、保護者・先生・養護教諭など信頼できる大人へ伝えてください。このページは個別の相談窓口の代わりではありません。</p></aside>
 <nav class="nop-links" aria-label="このページの読み方"><a class="nop-link" href="#planet-block">6つの論点を山なみで比べる</a><a class="nop-link" href="#school-nickname-faq">よくある質問を読む</a></nav>

diff --git a/scripts/nickname_opening.py b/scripts/nickname_opening.py
@@ -163,7 +163,6 @@ def render_answer(config: dict, public: dict, answer: dict, index: int) -> str:
         f'<div class="nop-split__ok"><h3>{esc(answer["confirmed_label"])}</h3><ul>{ok}</ul></div>'
         f'<div class="nop-split__ng"><h3>{esc(answer["unconfirmed_label"])}</h3><ul>{ng}</ul></div>'
         f"</div>"
-        f'{render_voices(config["voices_label"], answer["voices"])}'
         f"</article>"
     )
 
@@ -189,7 +188,6 @@ def render_scope(config: dict) -> str:
         f'<div class="nop-scope__wrap"><table class="nop-scope__table">'
         f'<thead><tr><td></td>{head}</tr></thead><tbody>{"".join(rows)}</tbody></table></div>'
         f'<p class="nop-scope__note">{esc(s["note"])}</p>'
-        f'{render_voices(config["voices_label"], s["voices"])}'
         f"</section>"
     )
 

diff --git a/quality/designs/2026-10-11-school-nickname-ban-opening.md b/quality/designs/2026-10-11-school-nickname-ban-opening.md
@@ -86,3 +86,7 @@
 - リンク先 `#planet-block` `#school-nickname-faq` は既存ページのアンカーに合わせた。試作単独ではFAQだけ飛べる。
 - Safari・実機・キーボード操作・読み上げは未確認。表のセルは「使う／使わない」を文字でも書いたので、色だけに頼ってはいない。
 - 次回収集（10/18）で検索急騰後の投稿が入ると件数・立場が変わる。冒頭の文言は件数を含まないので、設定の直しは不要の見込み。
+
+## 2026-10-11 オーナー指示で期待・懸念を背景へ移動
+
+2026-10-11 オーナー指示で期待・懸念を背景へ移動。375pxで件数欄の開始位置が2377pxから2027pxになった（全体の高さは4591pxから4241px、1280pxは2848pxから2645px）。設定JSONでは `voices_label` と各 `voices` を `background_candidates` に移し、文言は残した。横はみ出しなし（scrollWidth 375 / 1280）。
